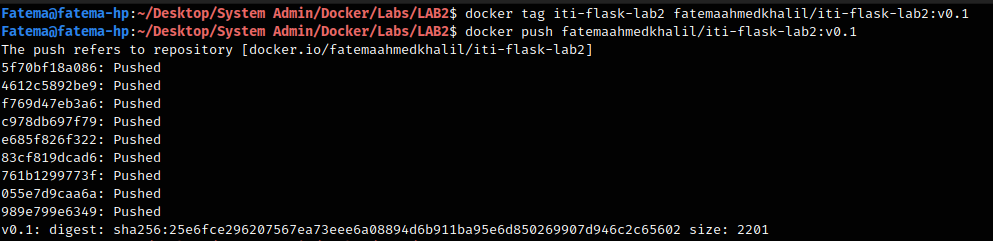
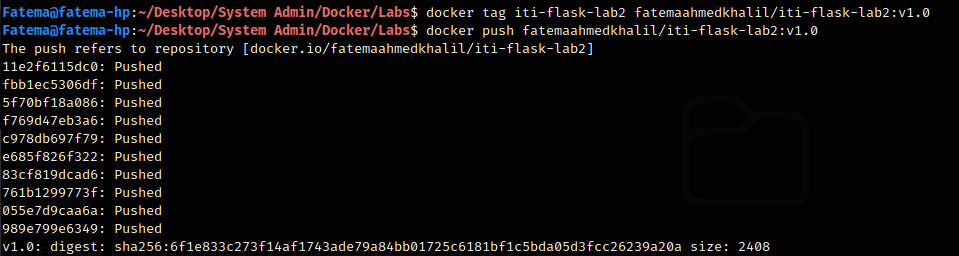
Update LAB2 Question 1 Solution

Changed region(s): [[0.0, 0.0, 1.0, 1.0]]

diff --git a/LAB2/README.md b/LAB2/README.md
@@ -15,7 +15,7 @@ WORKDIR /app
 RUN apk add --no-cache git
 RUN git clone https://github.com/meldafrawi/basic-flask-app.git
 RUN pip install -r basic-flask-app/requirements.txt
-ENTRYPOINT ["python", "basic-flask-app/app.py"]
+ENTRYPOINT ["python", "basic-flask-app/routes.py"]
 ```
 
 Since the Repo ```requirment.txt``` contains old versions, I tried to install latest versions by removing the old version numbers from the file
@@ -74,8 +74,8 @@ curl 127.0.0.1:80
 
 ```bash
 docker login
-docker tag iti-flask-lab2 fatemaahmedkhalil/iti-flask-lab2:v0.1
-docker push fatemaahmedkhalil/iti-flask-lab2:v0.1
+docker tag iti-flask-lab2 fatemaahmedkhalil/iti-flask-lab2:v1.0
+docker push fatemaahmedkhalil/iti-flask-lab2:v1.0
 ```
 
 ![step 5](images/05.png)
